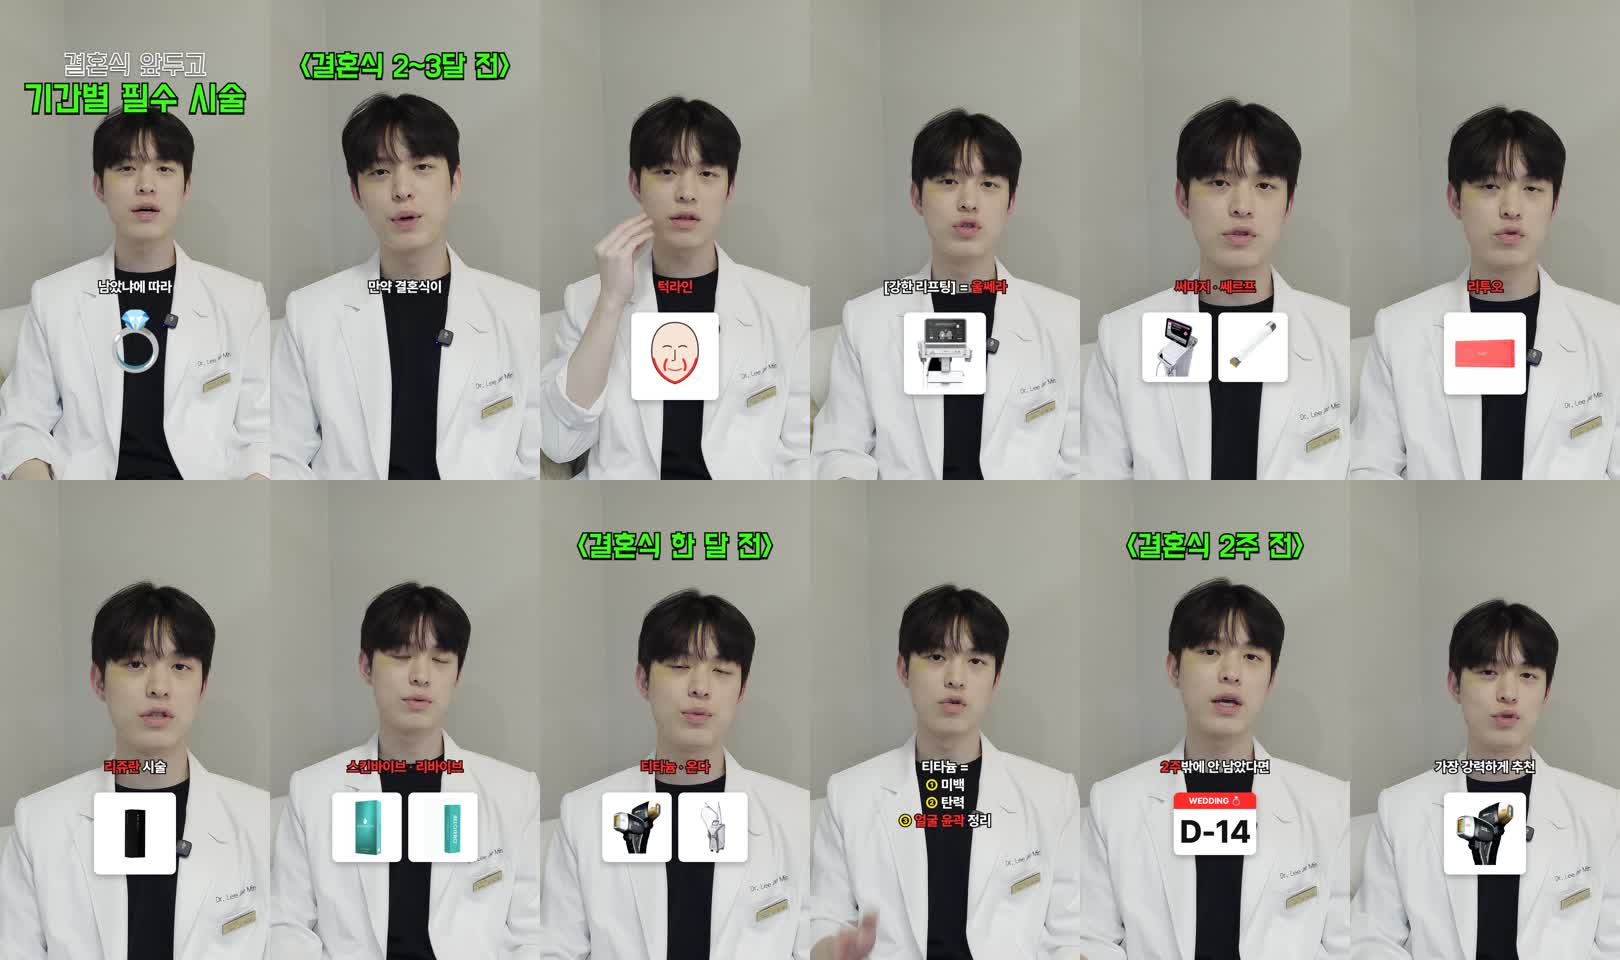
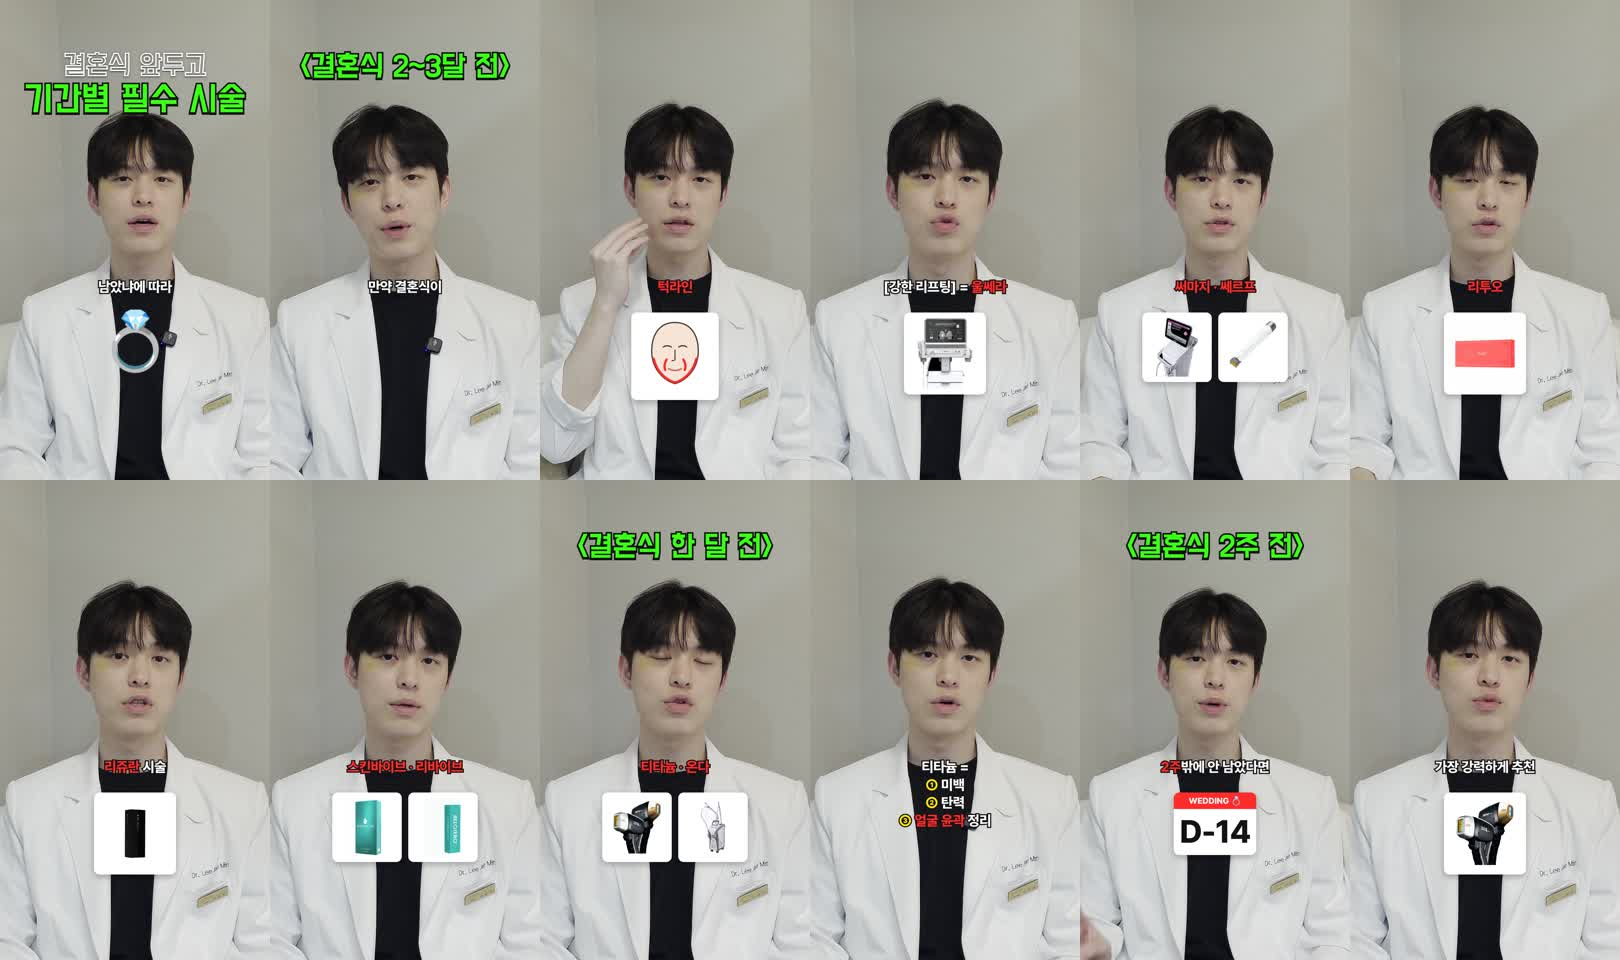
Steady face framing in wedding reel
Drop the 1.4s fake zoom cuts and snap zooms that made the face jump.
Zoom now changes only at real cuts (124%/132%), and each shot is
cropped around the detected face so it stays at 50% x / 40% y.

Claude-Session: https://claude.ai/code/session_015iv4uUKW8AbrYF6qvAiKTG

diff --git a/reels/build/cut4.py b/reels/build/cut4.py
@@ -1,0 +1,22 @@
+import subprocess, json, os
+S=os.path.dirname(os.path.abspath(__file__))
+SRC=os.path.join(S,'..','footage','jm3.mp4')
+F=json.load(open(f'{S}/faces.json'))
+ZOOMS=[1.24,1.32]          # 컷마다 약 6.5%만 교대, 컷 없는 곳에서는 배율 고정
+os.makedirs(f'{S}/seg4',exist_ok=True)
+files=[];plan=[];T=0
+for i,(a,b,fx,fy,fh) in enumerate(F):
+    z=ZOOMS[i%2]; w=int(1620/z)//2*2; h=int(2880/z)//2*2
+    x=int(max(0,min(2160-w,fx-w/2))); y=int(max(0,min(3840-h,fy-0.40*h)))   # 얼굴 중심을 매 컷 같은 자리(가로 50%, 위 40%)에
+    d=b-a
+    vf=f"crop={w}:{h}:{x}:{y},scale=1080:1920:flags=lanczos,fps=30,eq=contrast=1.04:saturation=1.05:brightness=0.012,unsharp=5:5:0.4,format=yuv420p"
+    af=f"afade=t=in:d=0.015,afade=t=out:st={d-0.025:.3f}:d=0.025,aresample=48000"
+    f=f"{S}/seg4/{i:02d}_{a:.2f}_{b:.2f}_{z}.mov"
+    if not os.path.exists(f):
+        subprocess.run(['ffmpeg','-v','error','-y','-ss',f'{a}','-t',f'{d:.3f}','-i',SRC,'-vf',vf,'-af',af,'-ac','2',
+          '-c:v','libx264','-crf','14','-preset','medium','-c:a','pcm_s16le',f],check=True)
+    files.append(f); plan.append({'t0':round(T,3),'t1':round(T+d,3),'z':z}); T+=d
+open(f'{S}/seg4/list.txt','w').write(''.join(f"file '{p}'\n" for p in files))
+subprocess.run(['ffmpeg','-v','error','-y','-f','concat','-safe','0','-i',f'{S}/seg4/list.txt','-c','copy',f'{S}/cut4.mov'],check=True)
+json.dump({'shots':plan,'total':round(T,3)},open(f'{S}/cut4.json','w'))
+print(len(plan),'shots total',round(T,2))

diff --git a/reels/build/faces.py b/reels/build/faces.py
@@ -1,0 +1,16 @@
+import cv2, subprocess, json, numpy as np, os
+exec(open('cut3.py').read().split('ZOOMS=')[0].replace("S=os.path.dirname(os.path.abspath(__file__))","S='.'"))
+cas=cv2.CascadeClassifier(cv2.data.haarcascades+'haarcascade_frontalface_default.xml')
+def frame(t):
+    raw=subprocess.run(['ffmpeg','-v','error','-ss',f'{t:.3f}','-i','../footage/jm3.mp4','-frames:v','1','-vf','scale=540:960','-f','rawvideo','-pix_fmt','gray','-'],capture_output=True).stdout
+    return np.frombuffer(raw,np.uint8).reshape(960,540)
+res=[]
+for a,b in pieces:
+    pts=[]
+    for k in range(5):
+        g=frame(a+(b-a)*(k+0.5)/5)
+        f=cas.detectMultiScale(g,1.1,6,minSize=(60,60))
+        if len(f): x,y,w,h=max(f,key=lambda r:r[2]*r[3]); pts.append((x+w/2,y+h/2,h))
+    p=np.median(np.array(pts),axis=0)*4 if pts else None
+    res.append([a,b]+([round(v,1) for v in p] if p is not None else [None]*3)); print(res[-1],len(pts))
+json.dump(res,open('faces.json','w'))

diff --git a/reels/README.md b/reels/README.md
@@ -1,7 +1,7 @@
 # 결혼식 D-day별 시술 릴스 (이재민 원장)
 
 - 완성본: `wedding_dday_leejaemin.mp4` (1080×1920 · 30fps · 54.6초 · -14.4 LUFS). 저장소 `.gitignore`가 `*.mp4`를 제외하므로 파일은 세션에서 따로 전달합니다.
-- 미리보기: `contact_sheet.jpg`(12장면), `cover_preview.jpg`
+- 미리보기: `contact_sheet.jpg`(12장면), `cut_check.jpg`(컷 직전·직후 프레임 6쌍), `cover_preview.jpg`
 - 원본: Drive `20261002_213221.mp4`(84초 본 테이크). 나머지 두 클립(`213421`, `213435`)은 시술명·적응증만 읽은 보조 녹음이라 쓰지 않았습니다.
 - 이동훈 원장 영상 6개는 Drive 공유가 '링크가 있는 모든 사용자'가 아니어서 받지 못했습니다.
 
@@ -10,9 +10,9 @@
 | 대본집 기준 | 이 영상 |
 |---|---|
 | 첫 단어 0.0초, 인트로·인사 없음 | 0.0초 "결혼식이 얼마나 남았냐에 따라 다른데요" |
-| 구마다 컷, 평균 샷 1.55초, 0.3초 넘는 공백 없음 | 38컷, 평균 1.44초. 0.22초 넘는 숨·공백은 전부 걷어 냄 |
-| 컷마다 7% 안팎 확대·축소, 조금씩 당기다가 한 번에 풂 | 118% → 126% → 134% → 118% 반복 |
-| 강조어 직후 2프레임 순간 줌 | 2~3달, 울쎄라, 써마지, 리투오, 리쥬란, 티타늄(2회), 한 달 전에 +7% |
+| 구마다 컷, 평균 샷 1.55초, 0.3초 넘는 공백 없음 | 0.22초 넘는 숨·공백은 전부 걷어 냄(18컷, 평균 3.0초). 말이 이어지는 곳에서는 화면을 바꾸지 않음 — 1차본의 1.4초 단위 가짜 컷이 얼굴을 흔들어 보이게 해서 뺌 |
+| 컷마다 7% 안팎 확대·축소 | 실제 컷에서만 124% ↔ 132% 교대(6.5%). 컷마다 얼굴을 검출해(`build/faces.py`) 얼굴 중심을 늘 가로 50% · 위 40%에 고정 |
+| 강조어 직후 2프레임 순간 줌 | 쓰지 않음(얼굴 흔들림 보정 요청으로 제거) |
 | 얼굴 중심 위에서 40%, 얼굴 높이 17% | 원본 4K 세로에서 잘라 맞춤(쿠션 로고는 화면 밖) |
 | 제목 카드: 위 11~29%, 2줄, 세로로 긴 굵은 글씨, 형광 + 속 빈 테두리, 첫 프레임부터 약 3초 | 「결혼식 앞두고(외곽선) / 기간별 필수 시술(형광 연두 + 검은 테두리)」 0~2.6초. 글꼴 Do Hyeon |
 | 단락마다 소제목 1.5~3초 | <결혼식 2~3달 전> · <결혼식 한 달 전> · <결혼식 2주 전> |
@@ -49,4 +49,4 @@ D-14 · 2주 전: 티타늄
 
 ## 다시 만들기
 
-`build/cut3.py`(컷·줌) → faster-whisper로 단어 시각 → `build/overlay2.html` + `build/render2.cjs`(오버레이 PNG 30fps) → ffmpeg 합성(순간 줌·라우드니스). 원본 경로는 스크립트 안의 `footage/jm3.mp4`, 장비 사진은 `dev/`.
+`build/faces.py`(컷별 얼굴 위치) → `build/cut4.py`(컷·줌) → faster-whisper로 단어 시각 → `build/overlay2.html` + `build/render2.cjs`(오버레이 PNG 30fps) → ffmpeg 합성(순간 줌·라우드니스). 원본 경로는 스크립트 안의 `footage/jm3.mp4`, 장비 사진은 `dev/`.
